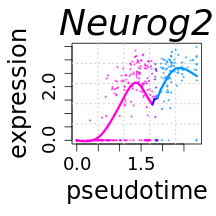
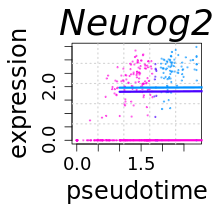
modify vignette

Changed region(s): [[0.5, 0.3056, 0.9444, 0.5833], [0.5278, 0.6389, 0.9444, 0.6667], [0.3611, 0.5833, 0.5, 0.6667]]

diff --git a/vignettes/tree_guide.md b/vignettes/tree_guide.md
@@ -1,5 +1,6 @@
 # Analysis of branching trajectories
 
+
 This vignette describes tree reconstruction procedure and basic routines to explore gene expression patterns associated with the tree. It demonstrates application of the tree analysis to neural crest system. The guideline starts with processed data, including normalized gene expression matrix and t-SNE embedding, shows how to reconstruct the tree, analyse transcriptional events along the tree and provides a number of visualization routines. 
 
 ## Preliminaries: loading the libraries
@@ -13,6 +14,7 @@ library(pcaMethods)
 library(Rcpp) 
 library(inline) 
 library(RcppArmadillo) 
+library(pbapply)
 
 library(crestree)
 ```
@@ -82,7 +84,7 @@ str(wgm)
 
 wgwm <- crest$wgwm # matrix of expression weights
 ```
-Of note, matrices contain only 1169 the most over-dispersed genes. Alternatively, we can upload the full matrix from a web server:
+Of note, matrices contain only 1169 the most over-dispersed genes. Alternatively, we can upload the full matrix from a web server (it can take some time):
 
 ```r
 fpm <- read.table("http://pklab.med.harvard.edu/ruslan/neural_crest/fpm.txt",header=TRUE)
@@ -121,7 +123,7 @@ plotppt(z,emb,tips=FALSE,cex.tree = 0.1,cex.main=0.2,lwd.tree = 1)
 
 ![plot of chunk unnamed-chunk-12](figure/unnamed-chunk-12-1.png)
 
-We next switch to expression matrix `wgm` with weights `wgmw` used in the paper. Of note, optimal tree parameters `lambda` and `sigma` are sensitive to the data properties, such as dataset size or choice of expression matrices. In section **"Selection of optimal tree parameters"** we discuss a strategy of parameters selection and suggest two guiding routines. Below the tree is modeled and visualized with a new choice of expression matrices:
+We next switch to expression matrix `wgm` with weights `wgmw` used in the paper. Of note, optimal tree parameters `lambda` and `sigma` are sensitive to the data properties, such as dataset size or choice of expression matrices. In section ["Selection of optimal tree parameters"](#Selection-of-optimal-tree-parameters) we discuss a strategy of parameters selection and suggest two guiding routines. Below the tree is modeled and visualized with a new choice of expression matrices:
 
 ```r
 lambda <- 250
@@ -139,7 +141,7 @@ Optionally, stable properties of the tree can be assessed using sampling of cell
 
 ```r
 ppt_ensemble <- bootstrap.ppt(X=wgm[,nc.cells], W=wgwm[,nc.cells], emb=emb, metrics=metrics, M=as.integer(length(nc.cells)*0.9), lambda=lambda, sigma=sigma, plot=FALSE,
-                             n.samples=20,n.cores=20, seed=NULL,replace=FALSE)
+                             n.samples=20, seed=NULL,replace=FALSE)
 ```
 
 Sampling of trees can be visualized on embedding using routing `plotpptl`:
@@ -205,7 +207,7 @@ ppt <- project.cells.onto.ppt(ppt,emb,n.mapping = 100)
 We are ready to study gene expression patterns along the tree. The first step is to identify genes that have expression levels significantly varied along the tree (tree-associated genes). Routine `test.associated.genes` estimates significance of each gene's association with the tree using an input expression matrix, e.g. `fpm`:
 
 ```r
-ppt <- test.associated.genes(ppt,n.map=1,n.cores = 20,fpm,summary=TRUE)
+ppt <- test.associated.genes(ppt,n.map=1,fpm,summary=TRUE)
 ```
 
 ![plot of chunk unnamed-chunk-22](figure/unnamed-chunk-22-1.png)
@@ -239,11 +241,9 @@ ppt$stat.association[genes.tree,]$sign <- TRUE
 Now expression levels of differentially expressed genes can be modeled as a function of pseudotime along the tree. 
 
 ```r
-ppt <- fit.associated.genes(ppt,fpm,n.map=1,n.cores=20)
+ppt <- fit.associated.genes(ppt,fpm,n.map=1)
 ## [1] "fit gene expression for mapping 1"
-## 
-##     branch-monotonous      complex patterns transiently expressed 
-##                   673                   112                   263
+## Error in dimnames(x) <- dn: length of 'dimnames' [1] not equal to array extent
 ```
 
 There are different ways to visualize expression trends of a gene along the tree. For example, as a function of pseudotime:
@@ -251,6 +251,7 @@ There are different ways to visualize expression trends of a gene along the tree
 ```r
 gene <- "Neurog2"
 visualise.trajectory(ppt,gene,fpm[gene,],cex.main = 3,lwd.t2=0.5)
+## Error in segments(r$cell.summary[c(c1.name), ]$t, r$fit.summary[gene, : invalid second argument
 ```
 
 ![plot of chunk unnamed-chunk-27](figure/unnamed-chunk-27-1.png)
@@ -260,9 +261,8 @@ The other way is to show how fitted expression levels `fit.summary` change along
 ```r
 par(mar=c(4,4,3,1))
 plotppt(ppt,emb,pattern.cell = ppt$fit.summary[gene,],gene="Neurog2",cex.main=1,cex.tree = 1.0,lwd.tree = 0.1,par=FALSE)
+## Error in plotppt(ppt, emb, pattern.cell = ppt$fit.summary[gene, ], gene = "Neurog2", : mat expression matrix should be defined together with gene parameter
 ```
-
-![plot of chunk unnamed-chunk-28](figure/unnamed-chunk-28-1.png)
 
 We can now use matrix of expression profiles `fit.summary` smoothed along the tree to cluster differentially expressed genes and explore major tree-associated patterns of expression. First, lets select a subset of genes that have large magnitude of variability along the tree:
 
@@ -279,28 +279,27 @@ str(genes)
 Then smoothed expression profiles can be clustered using a variety of methods. Clusters of genes can be explored using `visualise.clusters` visualization routine, using as a default hierarchical clustering with Ward linkage and cosine-based similarity with predefined number of `clust.n` clusters:
 
 ```r
-visualise.clusters(ppt,emb,clust.n = 5,cex.gene=1,cex.cell=0.05,cex.tree=0.2)
+visualise.clusters(ppt,emb,clust.n = 10,cex.gene=1,cex.cell=0.05,cex.tree=0.2)
+## Error in apply(emat, 1, function(x) (x - mean(x))/sd(x)): dim(X) must have a positive length
 ```
-
-![plot of chunk unnamed-chunk-31](figure/unnamed-chunk-31-1.png)
 
 Alternatively, it is possible to provide a vector of gene clusters for visualization. Below we use hierarchical clustering with euclidean distance to cluster genes:
 
 ```r
 hc <- hclust(dist(ppt$fit.summary[genes.tree,]),method="ward.D") # hierarchical clustering
-clust <- cutree(hc,6) # partition of genes in 4 clusters
+## Error in array(x, c(length(x), 1L), if (!is.null(names(x))) list(names(x), : 'data' must be of a vector type, was 'NULL'
+clust <- cutree(hc,10) # partition of genes in 4 clusters
+## Error in nrow(tree$merge): object 'hc' not found
 
 str(clust)
-##  Named int [1:1048] 1 2 3 4 2 3 3 3 4 5 ...
-##  - attr(*, "names")= chr [1:1048] "Rpl7" "Rdh10" "Crispld1" "Tfap2b" ...
+## Error in str(clust): object 'clust' not found
 ```
 And supply a vector `clust` for visualizzation:
 
 ```r
 visualise.clusters(ppt,emb,clust=clust,cex.gene=1,cex.cell=0.05,cex.tree=0.2)
+## Error in visualise.clusters(ppt, emb, clust = clust, cex.gene = 1, cex.cell = 0.05, : object 'clust' not found
 ```
-
-![plot of chunk unnamed-chunk-33](figure/unnamed-chunk-33-1.png)
 
 
 ## Analysis of subtree of interest
@@ -328,6 +327,7 @@ plotppt(ppt,emb,gene=gene,mat=fpm,cex.main=1,cex.tree = 1.5,lwd.tree = 0.1,subtr
 
 ```r
 visualise.trajectory(ppt,gene,fpm,cex.main = 3,subtree = zseg,lwd.t2=1)
+## Error in segments(r$cell.summary[c(c1.name), ]$t, r$fit.summary[gene, : invalid second argument
 ```
 
 ![plot of chunk unnamed-chunk-36](figure/unnamed-chunk-36-1.png)
@@ -372,7 +372,8 @@ leaves <- c(165,91)
 A routine `test.fork.genes` performs assessment of genes differentially expression between post-bifurcation branches:
 
 ```r
-fork.de <- test.fork.genes(ppt,fpm[,],root=root,leaves=leaves,n.mapping = 1,n.cores=30)
+fork.de <- test.fork.genes(ppt,fpm[,],root=root,leaves=leaves,n.mapping = 1)
+## Error in dimnames(x) <- dn: length of 'dimnames' [1] not equal to array extent
 ```
 
 A table `fork.de` contains summary statistics of fold change `effect`, p-value `p` and adjusted p-value `fdr`  of differential expression between branches, magnitude `pd1.a` and p-value `pd1.p` of expression changes from derivative branch 1 to progenitor branch:
@@ -382,16 +383,16 @@ head(fork.de[order(fork.de$p),],)
 ```
 
 
-|        |    effect|  p| fdr| st| stf|      pd1.a|     pd1.p|      pd2.a|     pd2.p|
-|:-------|---------:|--:|---:|--:|---:|----------:|---------:|----------:|---------:|
-|Fam71f2 |  0.025891|  0|   0|  1|   1| -0.0091337| 0.5964409| -0.0239106| 0.0222614|
-|Neurog2 |  2.128871|  0|   0|  1|   1|  1.0819870| 0.0000000| -0.2581314| 0.0001524|
-|Hsd11b2 | -1.693875|  0|   0|  1|   1|  0.0756059| 0.1867864|  0.9509055| 0.0000000|
-|Srrm4   |  0.928124|  0|   0|  1|   1|  0.6634570| 0.0000000|  0.1075456| 0.0000487|
-|Mcam    | -1.486911|  0|   0|  1|   1|  0.3521913| 0.0000001|  1.0221176| 0.0000000|
-|Phox2b  | -1.297520|  0|   0|  1|   1|  0.0087856| 0.4096110|  0.9356242| 0.0000000|
+|        |    effect|  p| fdr|  st| stf|     pd1.a| pd1.p|      pd2.a|     pd2.p| state|
+|:-------|---------:|--:|---:|---:|---:|---------:|-----:|----------:|---------:|-----:|
+|Neurog2 | 1.9032796|  0|   0| 0.9| 0.9| 0.1012255|     0| -0.0262510| 0.0001858|     1|
+|Dll1    | 1.4404789|  0|   0| 1.0| 1.0| 0.0976255|     0|  0.0043581| 0.3941055|     1|
+|Srrm4   | 0.8383684|  0|   0| 1.0| 1.0| 0.0646809|     0|  0.0099734| 0.0002647|     1|
+|Mfng    | 0.9532576|  0|   0| 1.0| 1.0| 0.0630761|     0|  0.0034360| 0.4424417|     1|
+|Eya2    | 1.0311280|  0|   0| 0.9| 0.9| 0.0737302|     0|  0.0082446| 0.0035890|     1|
+|Pcdh8   | 1.1417276|  0|   0| 1.0| 0.9| 0.0515220|     0| -0.0193619| 0.0000199|     1|
 
-Detailed analysis of bifurcation point is described in https://github.com/hms-dbmi/crestree/blob/master/vignettes/bifurcation_point.md
+See manual [analysis of bifurcation point](https://github.com/hms-dbmi/crestree/blob/master/vignettes/bifurcation_point.md) for detailed analysis.
 
 ## Selection of optimal tree parameters
 Choice of parameters `sigma` and `lambda` for tree reconstruction is of crucial importance. We suggest a combination of formal criteria and exploratory analysis for selection of parameters. First, parameter `sigma` is selected as an optimum of cross validation upon `lambda`=0:
